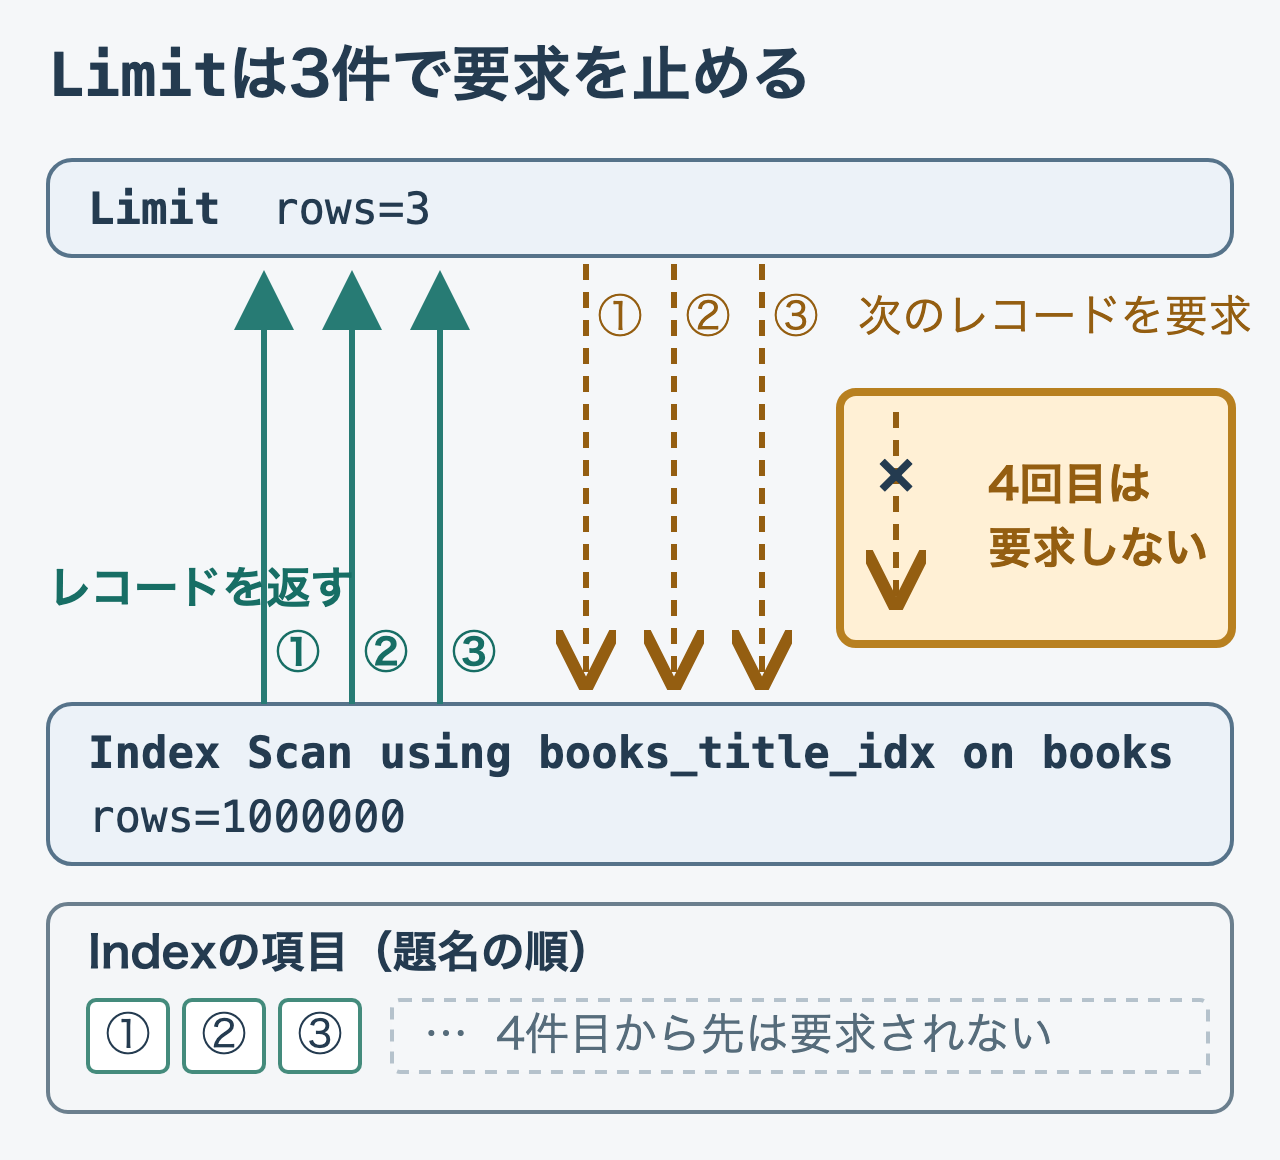
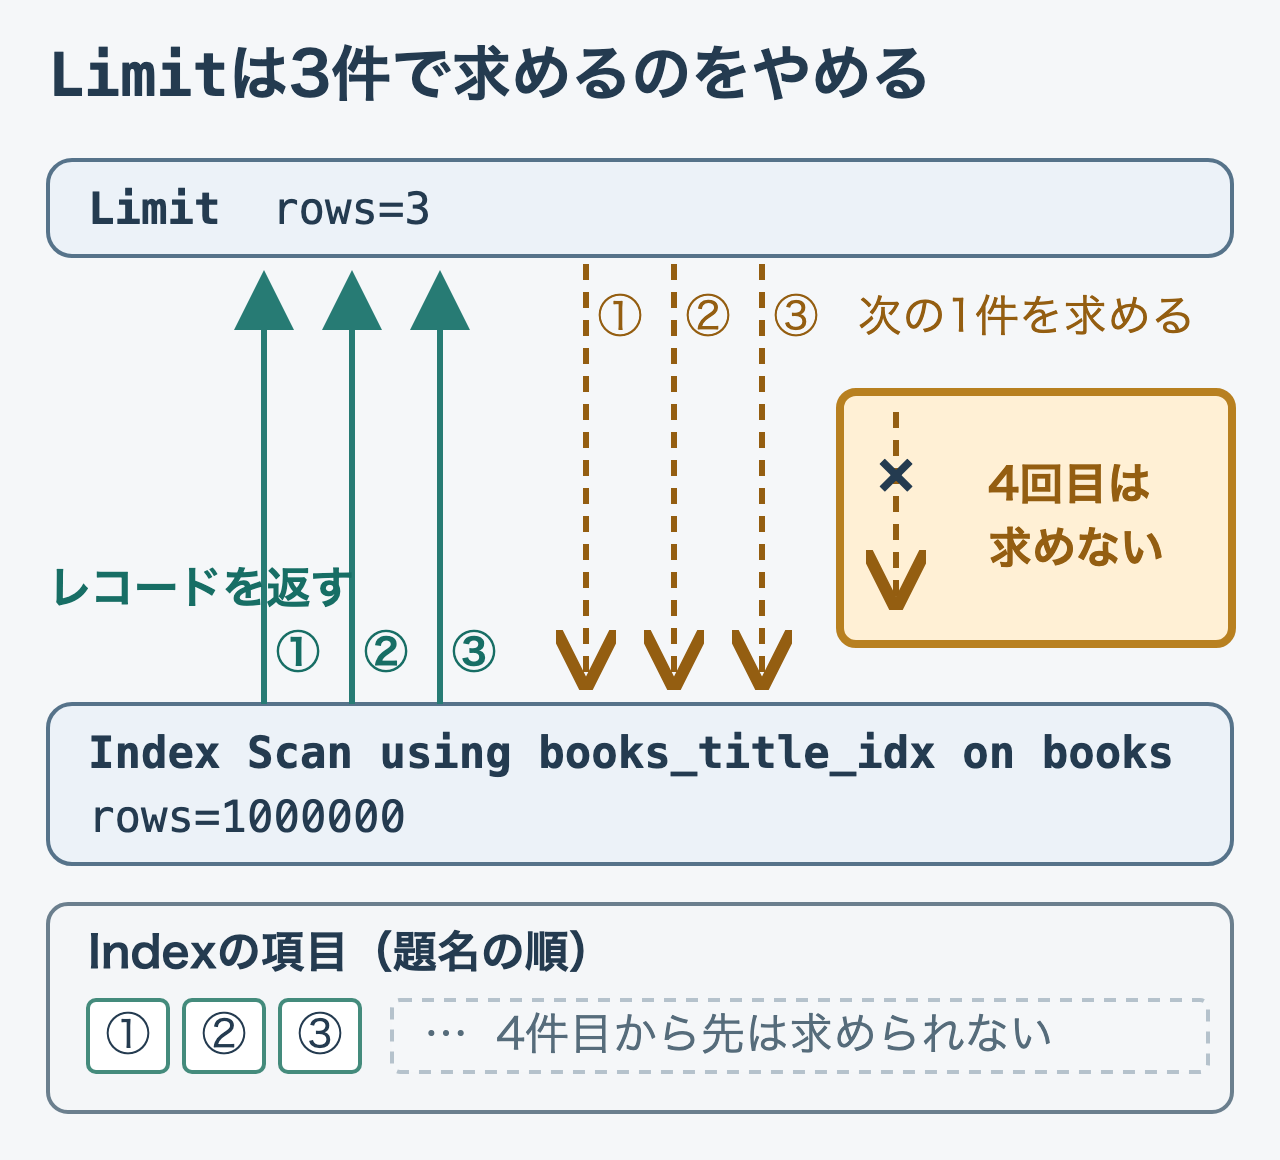
docs(query-journey): 第6章の「要求」を「求める」にそろえ、ハッシュ表を作る側が計画で変わることを書く
確かめ直しの6位・7位と次点。
- 計画の木の本文・図 02-execution-tree・代替テキスト・キャプションの「要求」を
  「求める」にそろえた。第2章と第6章の後半、Hash Join の図は「求める」だったため。
  図の見出しが変わったので catalog.json と図の一覧の README も合わせた
- 子が二つある小さな計画の後に、ハッシュ表を作る側は計画ごとに決まり、
  小さな計画では少ない本2冊、ランキングでは多い本100万冊の側で作ると一文足し、
  読み方を第9章へ送った。小さな例から「少ない側で作る」と一般化しやすかったため。
  多い側で作った理由は確かめていないので書いていない
- 処理の段の図 02-query-stages の「バックエンドの中」を「サーバの中」にした。
  バックエンドは章末の補足で初めて説明されるため

diff --git a/books/postgresql-query-journey/06-process-and-execution.md b/books/postgresql-query-journey/06-process-and-execution.md
@@ -67,7 +67,7 @@ Limit  (cost=0.42..0.57 rows=3 width=30)
 
 `Index Scan`がIndexの順にレコードを読み、`Limit`が3件まで受け取る計画です。
 
-`Index Scan`の`rows=1000000`は最後まで実行した場合の見積もりです。上の`Limit`は3件で要求を止める計画なので、100万件すべてを読む予定ではありません。ここでは`EXPLAIN`だけを実行しているため、実際のレコード数や時間は表示されていません。実際のレコード数は`EXPLAIN ANALYZE`で確かめられます。
+`Index Scan`の`rows=1000000`は最後まで実行した場合の見積もりです。上の`Limit`は3件で求めるのをやめる計画なので、100万件すべてを読む予定ではありません。ここでは`EXPLAIN`だけを実行しているため、実際のレコード数や時間は表示されていません。実際のレコード数は`EXPLAIN ANALYZE`で確かめられます。
 
 実際の受け渡しも測ってみます。
 
@@ -87,12 +87,12 @@ Limit  (cost=0.42..0.57 rows=3 width=30) (actual time=0.015..0.016 rows=3.00 loo
 
 Index Scanの推定は最後まで読んだ場合の100万件ですが、実際には3件を返して止まっています。上のLimitの`actual rows=3`と、子の`actual rows=3`が対応しました。
 
-実行計画は、上の処理が下の処理からレコードを受け取る親子の形をしているので、計画の木と呼ばれます。この二つの処理がレコードを受け渡す様子を図にします。左の矢印がレコードを返す向き、右が次のレコードを要求する向きです。
+実行計画は、上の処理が下の処理からレコードを受け取る親子の形をしているので、計画の木と呼ばれます。この二つの処理がレコードを受け渡す様子を図にします。左の矢印がレコードを返す向き、右が次のレコードを求める向きです。
 
-![Limitが次のレコードを3回要求し、Index Scanが題名の順に3件を返す。4回目は要求しない。出力の見積もりはLimitがrows=3、Index Scanがrows=1000000](/images/postgresql-query-journey/02-execution-tree.png)
-*①〜③の3往復の後、4回目の要求をしないことを見てください（直前の計画に対応させて説明するための図。rowsは見積もり）。*
+![Limitが次の1件を3回求め、Index Scanが題名の順に3件を返す。4回目は求めない。出力の見積もりはLimitがrows=3、Index Scanがrows=1000000](/images/postgresql-query-journey/02-execution-tree.png)
+*①〜③の3往復の後、4回目は求めないことを見てください（直前の計画に対応させて説明するための図。rowsは見積もり）。*
 
-実行時は、上の`Limit`が下の`Index Scan`に次の1件を要求します。`Index Scan`は題名のIndexをたどり、テーブルから取り出したレコードを返します。この受け渡しを繰り返し、`Limit`は3件を受け取ったら要求を止める計画です。
+実行時は、上の`Limit`が下の`Index Scan`に次の1件を求めます。`Index Scan`は題名のIndexをたどり、テーブルから取り出したレコードを返します。この受け渡しを繰り返し、`Limit`は3件を受け取ったら求めるのをやめる計画です。
 
 今回の計画には、並べ替えを表す`Sort`がありません。題名のIndexから、`ORDER BY title`で求めた順にレコードを取り出せるためです。Indexで順序を得られない場合の並べ替えは、次章で扱います。
 
@@ -137,6 +137,8 @@ Execution Time: 262.495 ms
 *①で`Hash`の側が動き終えてから、②で`Seq Scan`が動き始めます（受け渡しを説明するための図。rowsは実測）。*
 
 出力では`Hash`が下に書かれていますが、先に動き終えるのは`Hash`の側です。子が並ぶ順番は、動く順番とは限りません。どの子をいつ動かすかは、親の処理が決めます。
+
+どちらの子の側でハッシュ表を作るかも、計画ごとに決まります。この小さな計画では件数の少ない本2冊の側で作りましたが、次のランキングの計画では、件数の多い本100万冊の側で作っています。どちらの側で作ったかの読み方は、第9章で確かめます。
 
 ## 長い計画を木として読む
 
